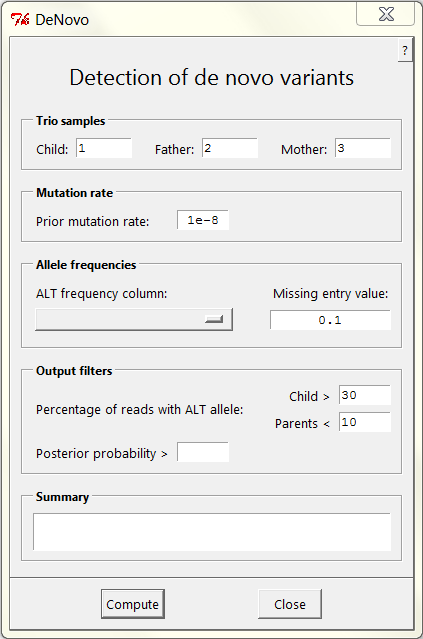
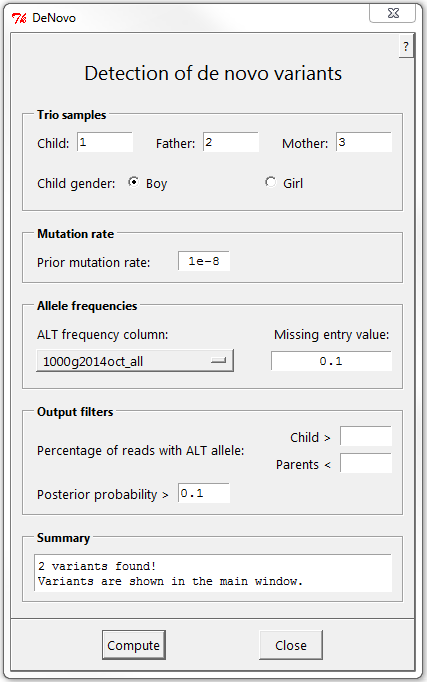
[manual] Added example to de novo help page.

Changed region(s): [[0.0, 0.0, 1.0, 1.0]]

diff --git a/filtus/man/denovo.html b/filtus/man/denovo.html
@@ -14,10 +14,12 @@ Detection of <em>de novo</em> variants
 <a href="#prerequisites">Prerequisites</a>&nbsp;&nbsp;
 <a href="#dialog">Dialog</a>&nbsp;&nbsp;
 <a href="#tips">Practical tips</a>&nbsp;&nbsp;
+<a href="#example">Example</a>&nbsp;&nbsp;
 <a href="#algorithm">Algorithm</a>
 
 <h2 id="description" style="color: black;">Description</h2><p>
-Identification of <em>de novo</em> variants in a trio (child + both parents). Posterior de novo probabilities are computed using a Baysian approach.
+Identification of <em>de novo</em> variants in a trio (child + both parents). The output includes posterior <em>de novo</em> probabilities 
+as well as the percentage of reads with the alternative allele.
 </p>
 
 <h2 id="prerequisites" style="color: black;">Prerequisites</h2><p>
@@ -62,7 +64,9 @@ you can use the syntax <kbd>ID &lt;string&gt;</kbd> where
 given in the variant file). For example, if the sample name of the
 child is "Trio1_child" you can write <kbd>ID child</kbd>. If the string is not
 unique (i.e. if there are multiple loaded sample names containing
-"child") you will be warned.
+"child") you will be warned. If you don't know who's who in the trio, 
+you can find out using the <a href="qcplots.html#tips">Quality Control Plots</a> (see Tip 3 on that page).<br><br>
+Finally, you should also indicate the gender of the child, to ensure correct handling of X-linked variants.
 </dd><br>
 <dt><strong>
 Mutation rate
@@ -79,29 +83,23 @@ Allele frequencies
 Indicate a column containing frequencies for
 the ALT alleles. The <span style="font-style: italic;">Missing
 entry value</span> is substituted whenever the column does not
-contain a number. If your variant file does not have frequency data,
+contain a number, or if the variant is multiallelic. If your variant file does not have frequency data,
 the <span style="font-style: italic;">Missing entry value</span>
 will be used for all variants. Without correct frequencies, the program
 will still identify the same potential <em>de novo</em> variants,
-but the posterior probabilities may be less accurate.<br><br>
-NB: For multiallelic variants, the frequency column is ignored. As a
-result, any multiallelic variants detected by the <em>de novo</em> algorithm
-gets a missing posterior probability ('-'). Since the output is sorted
-on the posterior probability, these will end up at the bottom of the
-list.
-</dd><br>
+but the posterior probabilities may be less accurate.</dd><br>
 
 <dt><strong>
 Output filters
 </strong></dt><dd>
 The purpose of these filters is to reduce the
 number of false positives in the output. A true heterozygous <em>de novo</em>
-variant is expected to present with ALT/REF ratio close to 50% in the
+variant is expected to present with ALT percentage close to 50% in the
 child, and 0% in the parents. In practice some slack is recommended,
 e.g. child &gt; 30% and parents &lt; 5%.<br><br>
 One may experiment
-with these filters for other purposes too: For example, to look for de
-novo mosaic variants in the child one could try a very loose cutoff for
+with these filters for other purposes too: For example, to look for <em>de novo</em> 
+mosaic variants in the child one could try a very loose cutoff for
 the child, e.g. child &gt; 10%, while requiring parents = 0%. Or
 oppositely, for variants inherited from a mosaic parent, something like
 parents &lt; 25% and child &gt; 40% would be sensible, without
@@ -121,6 +119,50 @@ A summary of the findings is printed here. The identified variants are shown in 
 To save the results, first close the <em>de novo</em> dialog, and then select Save main window content in the File menu.</p>
 <p><em>Tip 2:</em> 
 When browsing variants in the main FILTUS window, you can right click on any particular variant to see details about that variant for all the samples.</p>
+
+<h2 id="example" style="color: black;">Example</h2>
+<p>Among the testfiles included in the FILTUS package is the file <em>trioHG002_22X.vcf</em>, 
+which contains variants on chromosomes 22 and X from the exome sequencing of a trio. The variants are annotated with Annovar.
+(The trio is the Jewish trio from the Genome in a Bottle Consortium, described <a href="http://biorxiv.org/content/early/2015/09/15/026468">here</a>.
+The complete exome sequencing variant set, is publically available from this
+<a href="ftp://ftp-trace.ncbi.nlm.nih.gov/giab/ftp/data/AshkenazimTrio/analysis/OsloUniversityHospital_Exome_GATK_jointVC_11242015">ftp site</a>.)<br>
+<br>
+The following steps shows a typical <em>de novo</em> analysis in FILTUS.
+<ol>
+<li>Load the <em>trioHG002_22X.vcf</em> file in the <em>testfiles</em> folder. Make sure the "Keep 0/0" box is checked.
+</li>
+<li>To remove the worst noice, apply column filters "VCF_FILTER - equal to - PASS" and "DP - greater than - 9".
+</li>
+<li>Find out who's who in the trio: Open the QC plot dialog (in the <em>Analysis</em> menu) and just press the first "Plot!" button.
+The Private variants plot should convince you that sample 1 is the child, which in combination with the Gender plot implies that the sample order is
+1=boy, 2=father, 3=mother.
+</li>
+<li>Close the plot dialog and open the <em>de novo</em> dialog. Enter the sample order and child gender as deduced above, 
+and choose "1000g2014oct_all" as the allele frequency column.</li>
+<li>Press Compute.
+</li></ol>
+If you didn't set any output thresholds, the summary display should say that 4 variants were found. To examine them, first close the dialog. 
+By right clicking any individual variant you'll see genotype details from all loaded samples about that variant.<br><br>
+A few words about interpreting the findings: 
+<ul>
+<li>The top two variants are listed with posterior probability 1. However, they both have lower ALT percentage (ca 38%) 
+than you would expect from a heterozygous <em>de novo</em> variant. The fact they are only 52 basepairs apart is a bit suspicious, 
+and we see from the <em>genomicSuperDups</em> column that they are in a region of segmental duplication. 
+All in all, it is quite likely that both of these are false positives.</li>
+<li>The third variant has posterior probability 0, and is almost certainly a false positive. This is a tri-allelic variant, 
+where the TAA > TA change is reported to be <em>de novo</em>. If you right click on the variant you will see that both parents actually has
+plenty of reads with the alledged <em>de novo</em> allele.
+(Note about the alleles: Don't look at the "Ref" and "Alt" columns, which are added by Annovar and do not preserve multiple alternative alleles in this file. 
+The correct allele columns are "VCF_REF" and "VCF_ALT" much further to the right.)
+</li>
+<li>The ALT percentages of the fourth variant look very convincing, so why does it have posterior probability 0? 
+The problem is the father: According to the details, he has 365 REF reads and 0 ALT, but for some reason the genotype quality GQ is 0. 
+This could be a mapping problem (perhaps related to the fact that the variant is a fairly long insertion - or segmental duplication), or something else. 
+Anyway it would be worth investigating closer.</li>
+</ul>
+In summary: 1) Posterior probabilities should be taken with a grain of salt, and 
+2) If you have access to the BAM files, a closer look at the actual reads (e.g. in IGV or similar software) is always a good idea.
+
 
 <h2 id="algorithm" style="color: black;">Algorithm</h2><p>
 FILTUS uses the GT field of the genotype columns to recognize the following <em>de novo</em> genotype patterns (father + mother = child):

diff --git a/filtus/man/filtus.html b/filtus/man/filtus.html
@@ -3,19 +3,22 @@
 <meta content="text/html; charset=ISO-8859-1" http-equiv="content-type"><title>filtus</title></head>
 <body>
 <h1 style="color: black;">FILTUS</h1>
-<big>Filtus is a stand-alone tool for downstream
+<big>FILTUS is a stand-alone tool for downstream
 analysis in high-throughput sequencing projects. It is especially well
-suited for Mendelian disease mapping, offering statistical evaluation
-of variant sharing across related or unrelated individuals. The program is written in Python, by:<br><br>Magnus Dehli Vigeland, PhD<br>Department of Medical Genetics, Oslo University Hospital, Norway<br></big><big>Email: magnusdv&lt;at&gt;medisin&lt;dot&gt;uio&lt;dot&gt;no</big><br><big>
-<br>Filtus accepts (at least in principle) any format of variant files, as
+suited for identification of variants causing Mendelian disease. The program is written in Python, by:
+<br><br>Magnus Dehli Vigeland, PhD<br>
+Department of Medical Genetics<br>
+Oslo University Hospital, Norway<br>
+Email: magnusdv&lt;at&gt;medisin&lt;dot&gt;uio&lt;dot&gt;no</big><br><big>
+<br>FILTUS accepts (at least in principle) any format of variant files, as
 long as you state which columns contain the essential
 information (e.g. chromosome, position, gene and genotype). Standard
-VCF files are automatically recognized. Unlike other variant tools, Filtus is completely self-contained and
+VCF files are automatically recognized. Unlike other variant tools, FILTUS is completely self-contained and
 does not require an internet connection. This may be an important point
 if you are not allowed to be online when working with human
 sequence data.<br>
 </big><span style="font-weight: bold;"><br>
-</span><big>The latest version of Filtus is 1.0.1. Take a
+</span><big>The latest version of FILTUS is 1.0.1. Take a
 look at the <a href="FILTUS/Filtus_changelog.txt" target="_top">changelog</a>
 to see recent developments.</big><big> Questions,
 bug reports, feature requests and other comments are welcome by email
@@ -60,23 +63,23 @@ features.</li>
 <ul>
 <li>Download the latest version <a href="FILTUS/Filtus1.0.1.zip">here</a>
 and unpack the zip-file in any location you prefer. To start the
-program, simply double-click on the file Filtus.exe in the
-unpacked folder.</li>
+program, simply double-click on the file FiltusXXX.exe in the
+unpacked folder (XXX = version number).</li>
 </ul>
 A couple of things to notice:<br>
 <ol>
-<li>The windows version of Filtus requires a 64-bit processor.</li>
+<li>The windows version of FILTUS requires a 64-bit processor.</li>
 <li>The unpacked Filtus folder contains a great number of
 files in addition to the .exe file. These are for internal use only and
 should be ignored (but not deleted) by end users.</li>
-<li>To create a Filtus icon on the desktop (Windows 7):</li>
+<li>To create a FILTUS icon on the desktop (Windows 7):</li>
 <ol>
 <li>Right click on the .exe file</li>
 <li>Choose <em>Send to</em> and then <em>Desktop
 (create shortcut)</em></li>
 </ol>
-<li>To uninstall Filtus you can just delete the Filtus folder.
-Filtus leaves no footprint on your computer.</li>
+<li>To uninstall FILTUS you can just delete the Filtus folder.
+FILTUS leaves no footprint on your computer.</li>
 </ol>
 <br>
 <h3>MAC/LINUX</h3>
@@ -105,18 +108,18 @@ must be installed on your system.</li>
 <br>
 <hr style="width: 100%; height: 2px;">
 <h2>Loading a test file</h2>
-To check that everything is OK, you can load the test file included in the "example_files" folder:<br>
+To check that everything is OK, you can load a test file as follows:<br>
 <ul>
-<li>Start Filtus.</li>
+<li>Start FILTUS.</li>
 <li>On the <em>File</em> menu,
 choose <em>Load files (simple).</em></li>
-<li>Move to the <em>example_files</em>
+<li>Move to the <em>testfiles</em>
 folder, choose <em>test_file.csv</em> and
 press <em>Open.</em></li>
 <li>In the Input file settings dialog, click <em>Use
 for all files.</em></li>
 <li>You should now see the file name in the <em>Loaded
-files</em> window, and a row in the <em>Unfiltered
+samples</em> window, and a row in the <em>Unfiltered
 summaries</em> window saying "425 variants in 205 genes". If you
 double-click on this row, you should see the contents of the file in
 the main window.</li>

diff --git a/filtus/man/loading.html b/filtus/man/loading.html
@@ -12,7 +12,6 @@ Loading variant files
 <a href="#prerequisites">Prerequisites</a>&nbsp;&nbsp;
 <a href="#dialog">Dialogs</a>&nbsp;&nbsp;
 <a href="#tips">Practical tips</a>&nbsp;&nbsp;
-<a href="#algorithm">Algorithm</a>
 
 <h2 id="description" style="color: black;">Description</h2><p>
 This page describes how to load variant files into Filtus. The short story is as follows:
@@ -25,7 +24,7 @@ This page describes how to load variant files into Filtus. The short story is as
 </ul>
 <p>For more details, continue reading.</p>
 
-<h2 style="color: black;">Prerequisites</h2>
+<h2 id="prerequisites" style="color: black;">Prerequisites</h2>
 Filtus is very liberal when it comes to file formats. Basically, the only requirements are:
 <ul>
 <li>Each line describes one variant position. (Files with initial meta information are allowed.)</li>
@@ -49,7 +48,7 @@ A typical example would be a column <em>zygosity</em>, with entries <em>het</em>
 </li>
 </ul>
 
-<h2 style="color: black;">Dialogs</h2>
+<h2 id="dialog" style="color: black;">Dialogs</h2>
 <h3 style="color: black;">Load files (simple)</h3>
 <p>This opens a standard window for choosing one or several files
 in a single folder. You can use usual keyboard tricks, such as
@@ -153,7 +152,5 @@ For large variant files it is highly recommended to apply a well chosen prefilte
 <p><em>Tip 2:</em> 
 When loading a single file, <strong>Use for all files</strong> is synonymous to <strong>Use for this file</strong>.</p>
 
-<h2 id="algorithm" style="color: black;">Algorithm</h2><p>
-Not relevant.
 
 </body></html>
